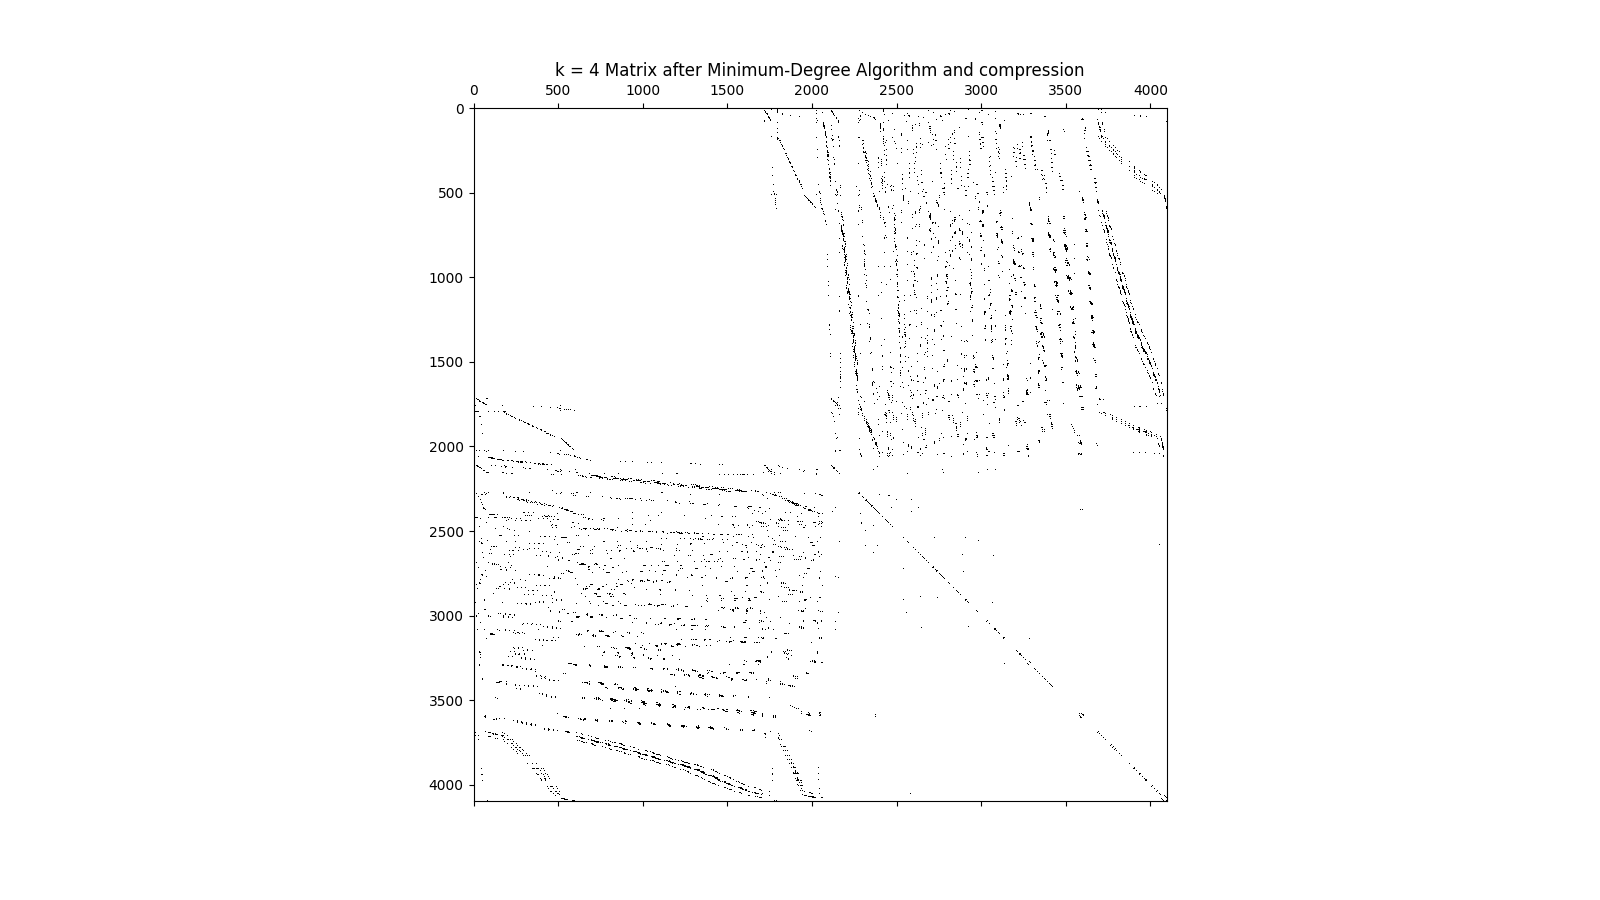
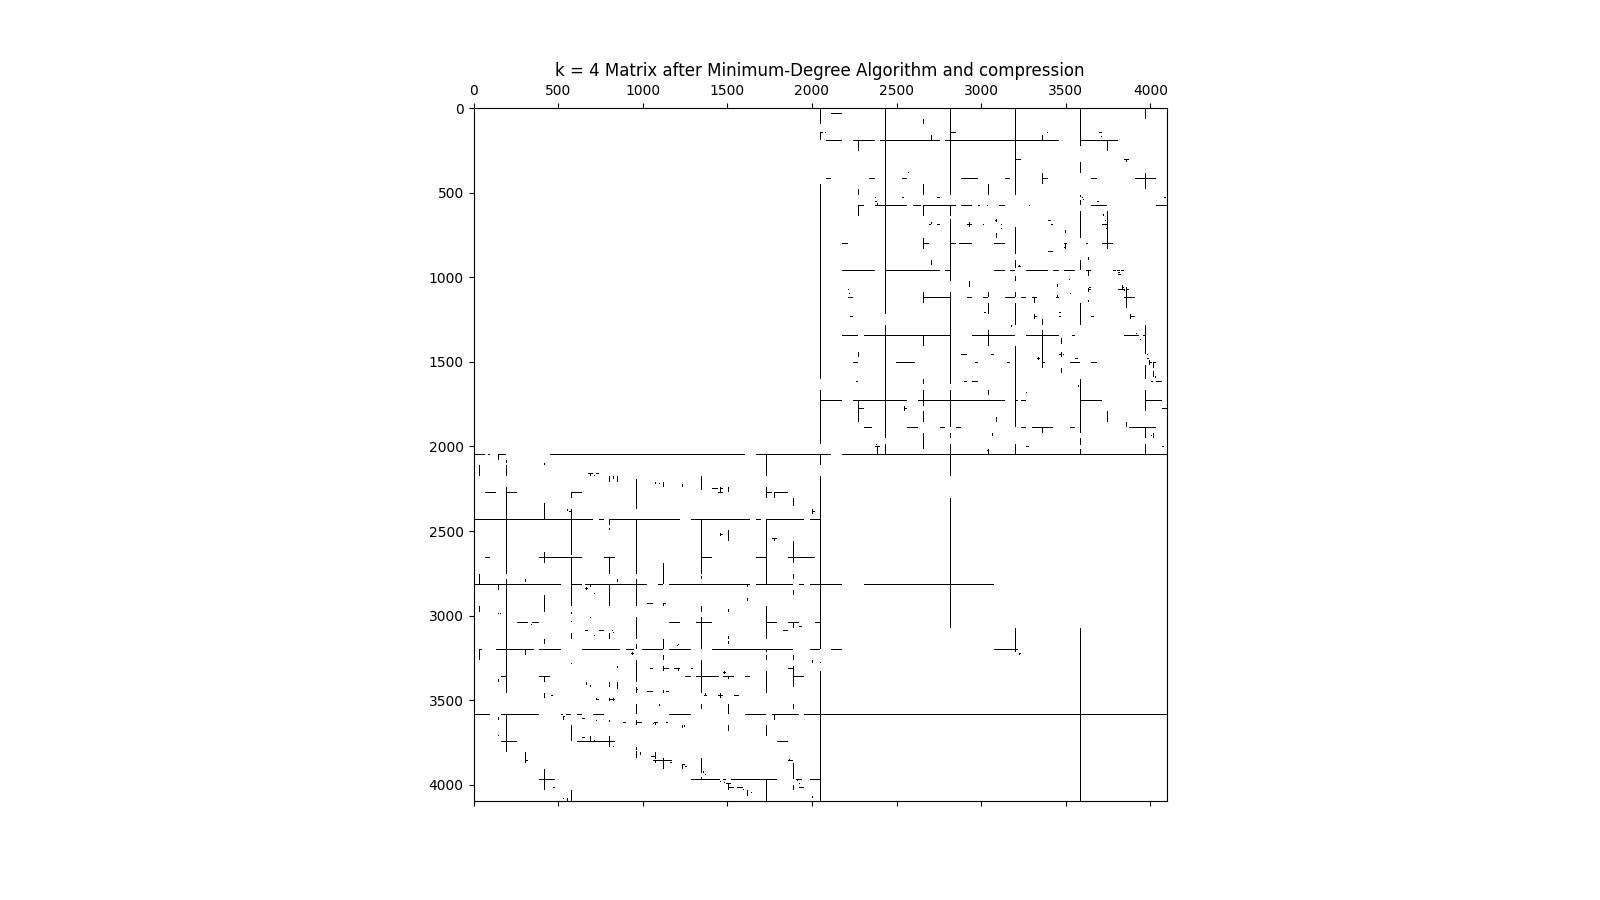
fix sparse_draw

diff --git a/zad4/main.py b/zad4/main.py
@@ -5,12 +5,13 @@ from permutation_engine import PermutationEngine
 for k in [2, 3, 4]:
     matrix = generate_3d_matrix_mesh(k)
 
+
     #draw matrix before compression
     sparse_draw(matrix, f"./zad4/data/k_{k}/2a.png",
                 title=f'k = {k} Matrix')
 
     #draw matrix after compression
-    compressed_matrix = compress_matrix(matrix.copy(), max_rank=4, min_singular_val=0)
+    compressed_matrix = compress_matrix(matrix.copy())
     compressed_matrix.draw_matrix(f"./zad4/data/k_{k}/2b.png",
                                   title=f'k = {k} Matrix after compression')
     
@@ -24,10 +25,9 @@ for k in [2, 3, 4]:
     
 
     #draw matrix after compressiona and permutation
-    compressed_permutated_matrix = compress_matrix(permutated_matrix, max_rank=4, min_singular_val=0)
+    compressed_permutated_matrix = compress_matrix(permutated_matrix)
     compressed_permutated_matrix.draw_matrix(f"./zad4/data/k_{k}/2d-min_deg.png",
                                              title=f'k = {k} Matrix after Minimum-Degree Algorithm and compression')
-
 
 
     # Reversed-Cuthil-Mckee
@@ -40,7 +40,7 @@ for k in [2, 3, 4]:
     
 
     #draw matrix after compressiona and permutation
-    compressed_permutated_matrix = compress_matrix(permutated_matrix, max_rank=4, min_singular_val=0)
+    compressed_permutated_matrix = compress_matrix(permutated_matrix)
     compressed_permutated_matrix.draw_matrix(f"./zad4/data/k_{k}/2d-rev_cut_mc.png", 
                                              title=f'k = {k} Matrix after reversed Cuthill & McKee Algorithm and compression')
 
@@ -55,6 +55,6 @@ for k in [2, 3, 4]:
     
 
     #draw matrix after compressiona and permutation
-    compressed_permutated_matrix = compress_matrix(permutated_matrix, max_rank=4, min_singular_val=0)
+    compressed_permutated_matrix = compress_matrix(permutated_matrix)
     compressed_permutated_matrix.draw_matrix(f"./zad4/data/k_{k}/2d-cut_mc.png",
                                              title=f'k = {k} Matrix after Cuthill & McKee Algorithm and compression')

diff --git a/zad4/utils.py b/zad4/utils.py
@@ -48,14 +48,11 @@ def _complete_connections_in_plane(position, step, index, mesh, size):
 #     plt.savefig(img_name)
 
 def sparse_draw(matrix, img_name=None, title="Bar plot"):
-    rows, cols = matrix.shape
 
-    if matrix.ndim != 2:
-        raise ValueError("Input must be a 2D numpy array.")
-
+    matrix_to_draw = np.where(matrix.copy() != 0, 1, 0)
 
     fig, ax = plt.subplots(figsize=(16, 9))
-    ax.matshow(matrix, cmap=plt.cm.get_cmap("binary", 2))  # "binary" colormap with 2 colors (black and white)
+    ax.matshow(matrix_to_draw, cmap=plt.cm.get_cmap("binary", 2))
 
     if img_name:
         ax.set_title(title)

diff --git a/zad5/utils.py b/zad5/utils.py
@@ -76,14 +76,10 @@ def _complete_connections_in_plane(position, step, index, mesh, size):
 #     plt.savefig(img_name)
 
 def sparse_draw(matrix, img_name=None, title="Bar plot"):
-    rows, cols = matrix.shape
-
-    if matrix.ndim != 2:
-        raise ValueError("Input must be a 2D numpy array.")
-
+    matrix_to_draw = np.where(matrix.copy() != 0, 1, 0)
 
     fig, ax = plt.subplots(figsize=(16, 9))
-    ax.matshow(matrix, cmap=plt.cm.get_cmap("binary", 2))  # "binary" colormap with 2 colors (black and white)
+    ax.matshow(matrix_to_draw, cmap=plt.cm.get_cmap("binary", 2))
 
     if img_name:
         ax.set_title(title)

diff --git a/zad4/tests.py b/zad4/tests.py
@@ -1,9 +1,14 @@
-from utils import generate_3d_matrix_mesh
+from utils import generate_3d_matrix_mesh, sparse_draw
 from compress import compress_matrix
+import numpy as np
 
-k = 4
+k = 2
 matrix = generate_3d_matrix_mesh(k)
-node = compress_matrix(matrix, 5, 0.01)
-node.draw_matrix("./loik.png")
+#node = compress_matrix(matrix, 5, 0.01)
+sparse_draw(matrix, "./loik.png")
 
-   
+def matrix_to_vectors(matrix):
+    vector = np.array([np.count_nonzero(row) for row in matrix])
+    return vector
+
+print(matrix_to_vectors(matrix))

diff --git a/zad5/compress.py b/zad5/compress.py
@@ -110,6 +110,8 @@ def compress_matrix(M, max_rank = 1, min_singular_val = 1):
     return node
 
 
+
+
 def decompress_matrix(node):
     if node.rank is not None:
         if node.rank > 0:
@@ -125,6 +127,8 @@ def decompress_matrix(node):
                 np.hstack((decompress_matrix(node.children[2]), decompress_matrix(node.children[3]))),
             )
         )
+    
+
 
 
 

diff --git a/zad4/compress.py b/zad4/compress.py
@@ -47,7 +47,7 @@ def split_matrix(M: np.ndarray):
     return M[:rows, :rows], M[:rows, rows:], M[rows:, :rows], M[rows:, rows:]
 
 
-def compress_matrix(M, max_rank, min_singular_val):
+def compress_matrix(M, max_rank=1, min_singular_val=1):
     if not np.any(M):
         return DecompositionNode(*M.shape, 0)
 

diff --git a/zad5/tests.py b/zad5/tests.py
@@ -8,7 +8,7 @@ K_VALUES = [2, 3, 4]
 def tests():
     multiply_times = []
     sq_errors = []
-    img_path = "./img/"
+    img_path = "./zad5/img/"
 
     for k in K_VALUES:
         matrix = generate_3d_matrix_mesh(k)
